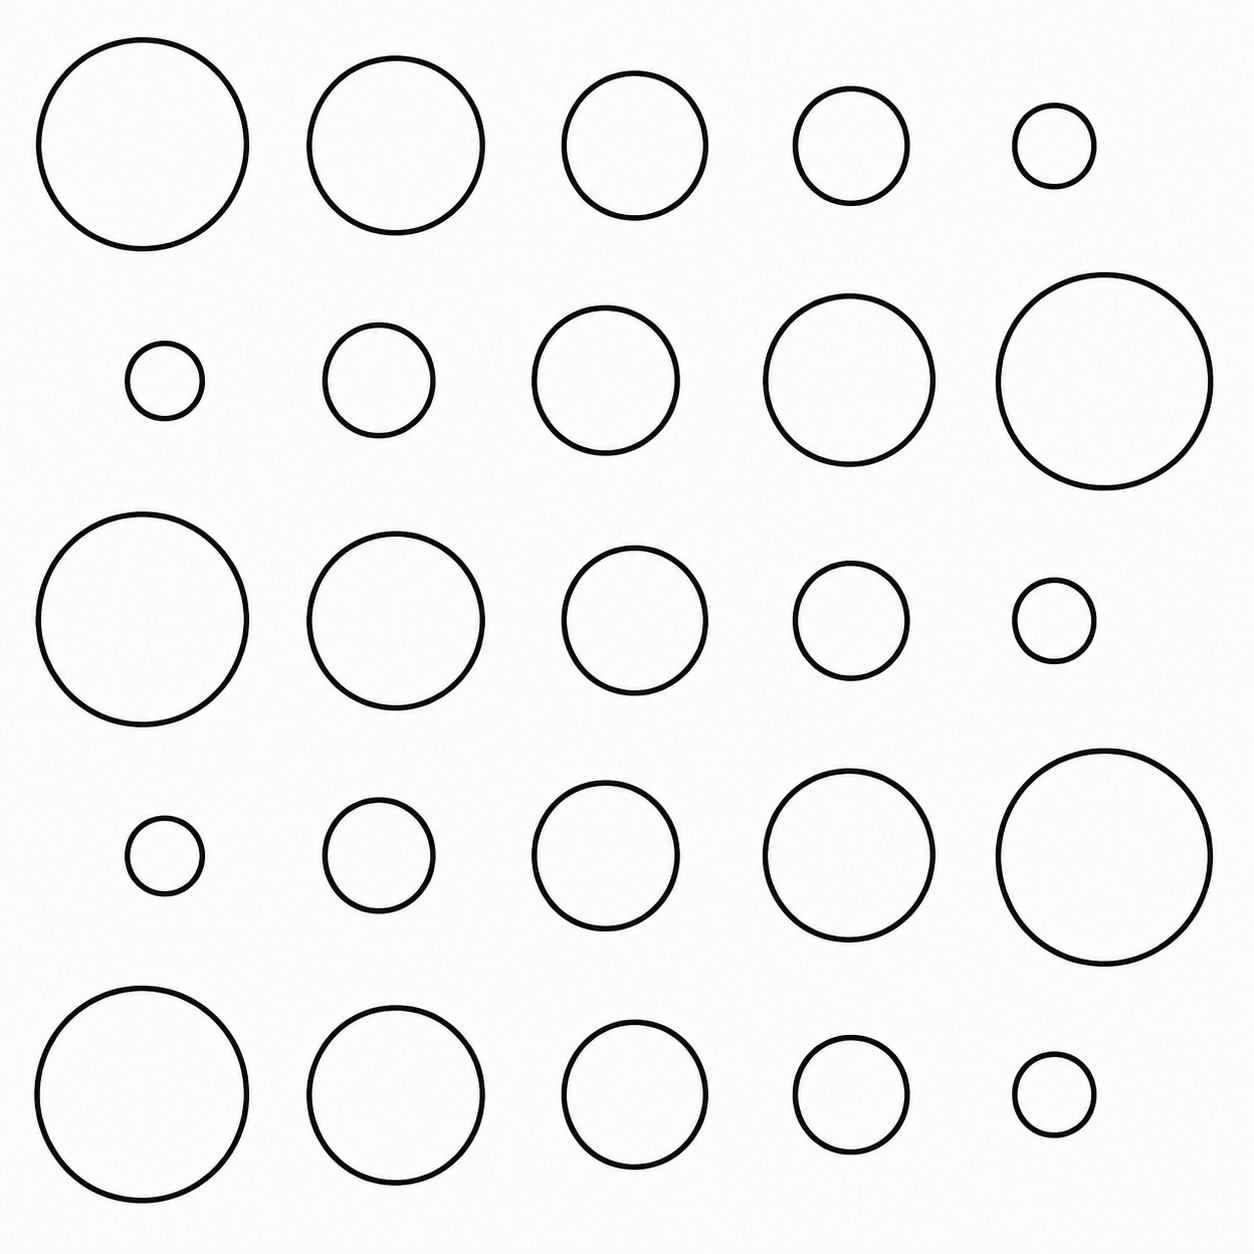
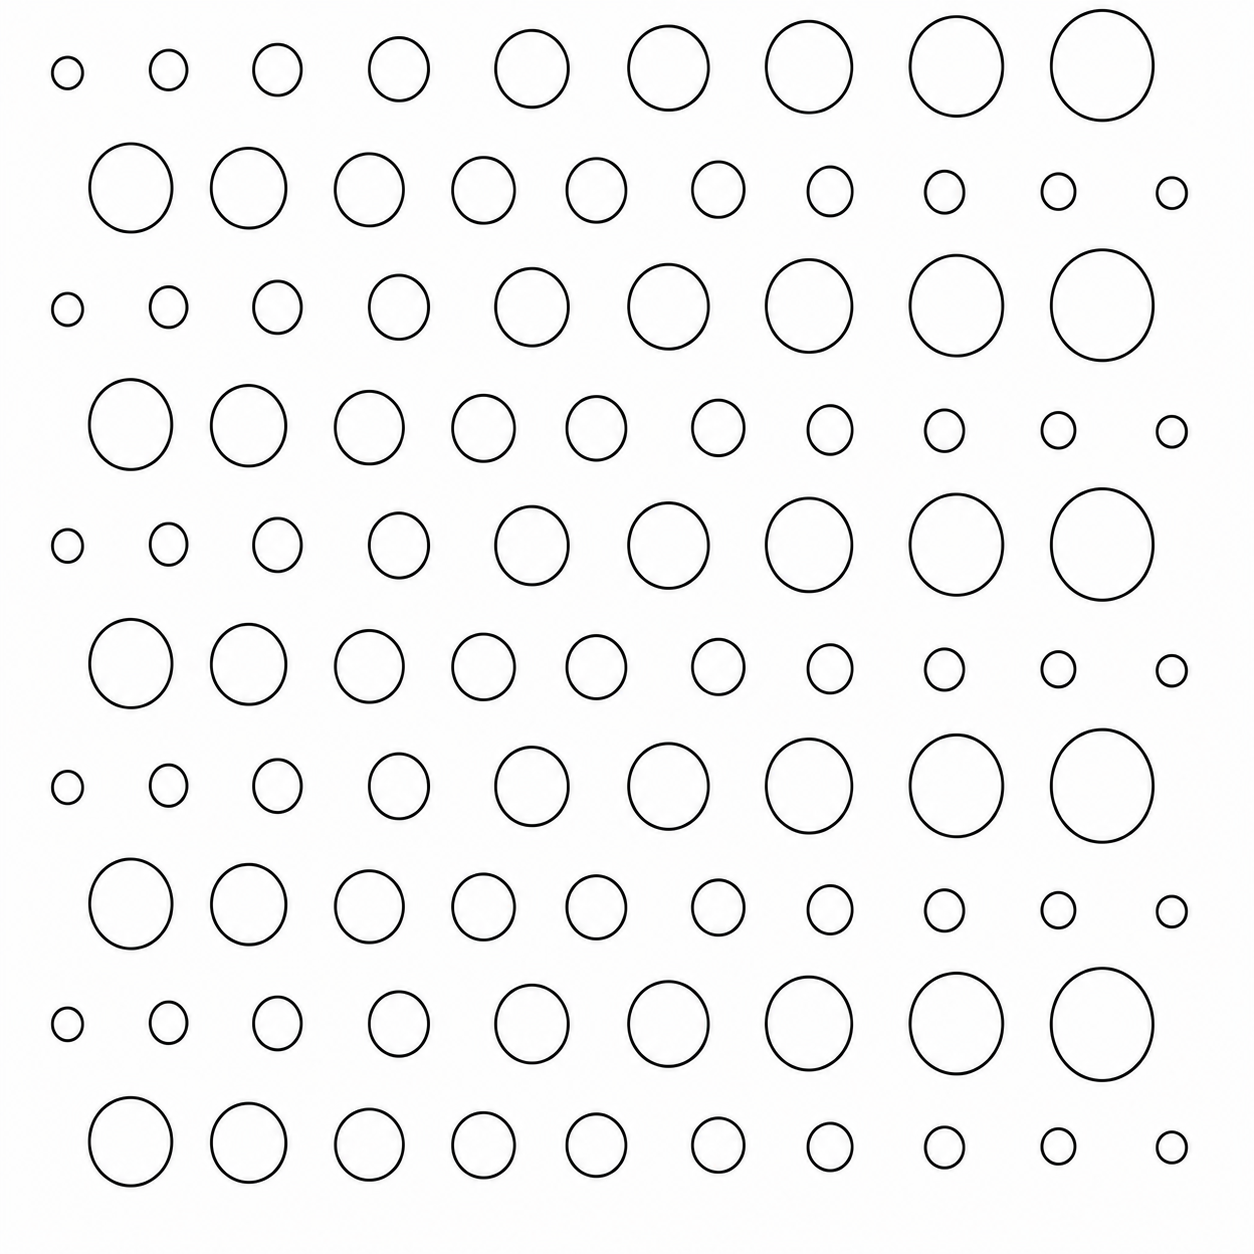
cups rendered

diff --git a/render_textured_cups_to_png.py b/render_textured_cups_to_png.py
@@ -4,8 +4,8 @@ import os
 import glob
 from mathutils import Vector
 
-INPUT_DIRECTORY = "output/cup/design/circle/2"
-OUTPUT_RENDER_DIRECTORY = "output/cup/render/circle/2"
+INPUT_DIRECTORY = "output/cup/design/circle/6"
+OUTPUT_RENDER_DIRECTORY = "output/cup/render/circle/6"
 RENDER_RESOLUTION_X = 1024
 RENDER_RESOLUTION_Y = 1024
 RENDER_SAMPLES = 512

diff --git a/apply_skin_to_cup_models.py b/apply_skin_to_cup_models.py
@@ -6,7 +6,7 @@ import os
 import glob
 
 INPUT_DIRECTORY = "output/cup/model"
-OUTPUT_DIRECTORY = "output/cup/design/circle/2"
+OUTPUT_DIRECTORY = "output/cup/design/circle/6"
 TEXTURE_REPEAT_AROUND_CIRCUMFERENCE = 1.0
 
 